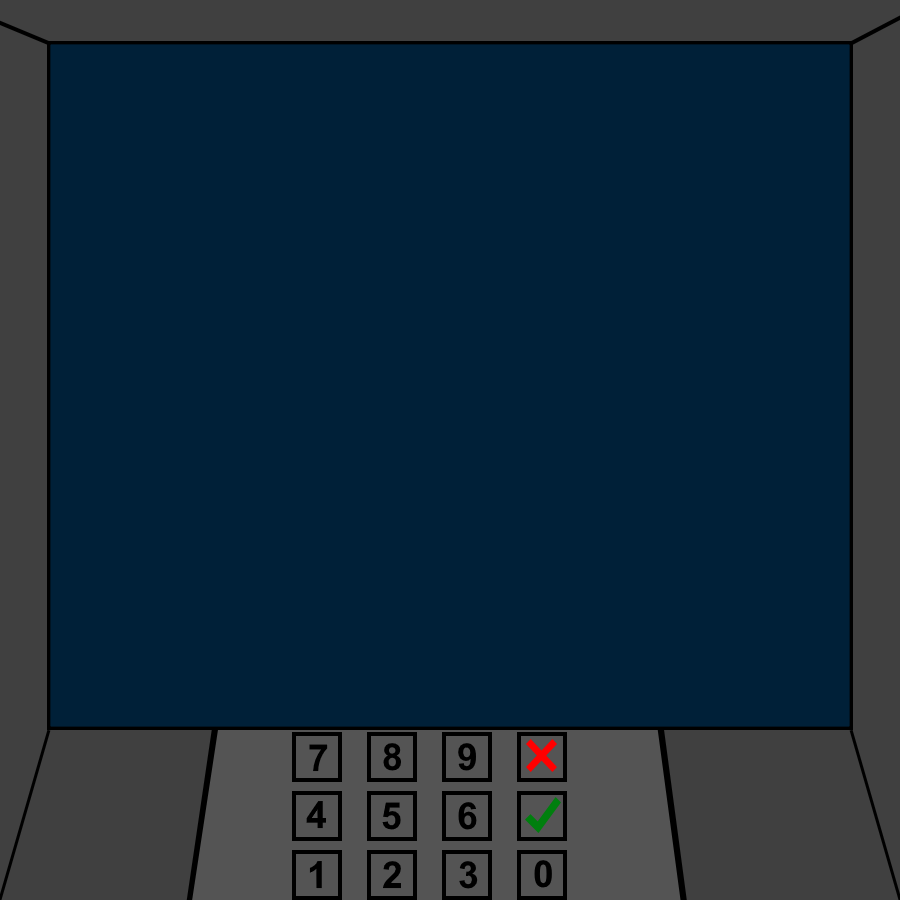
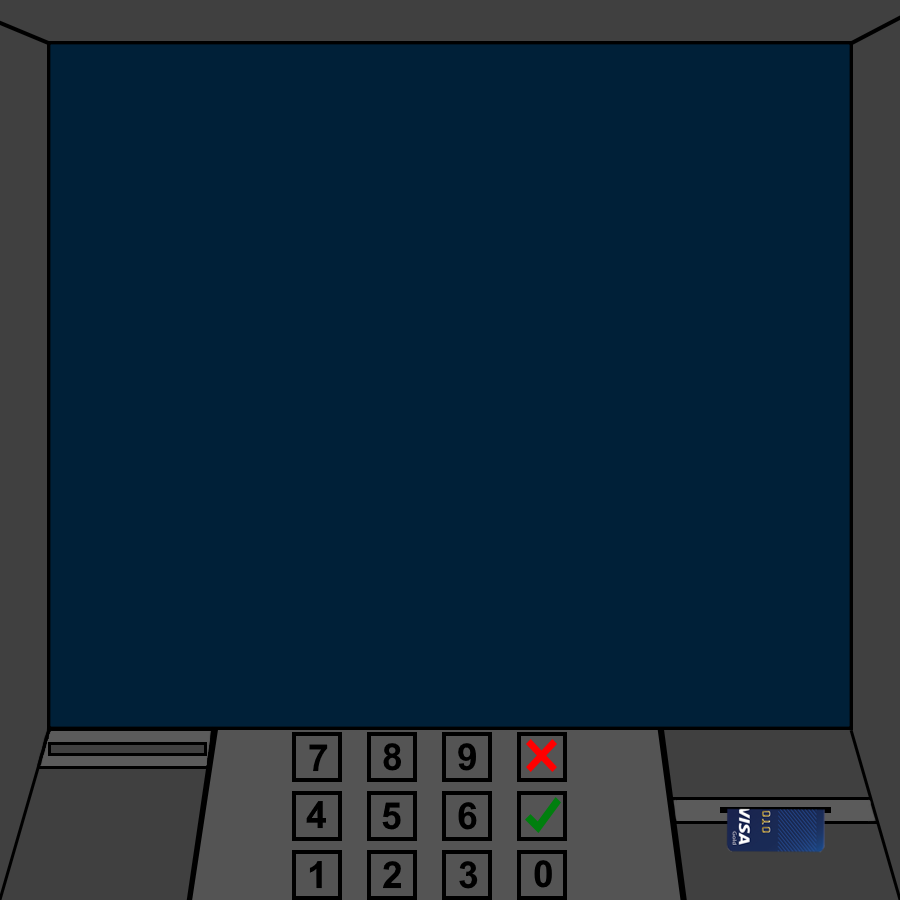
lettsgooooo

Changed region(s): [[0.7467, 0.8711, 0.9644, 0.9644], [0.0311, 0.8089, 0.2489, 0.8711]]

diff --git a/src/main/java/com/example/csmore/cashOutController.java b/src/main/java/com/example/csmore/cashOutController.java
@@ -11,6 +11,9 @@ import javafx.scene.Scene;
 import javafx.scene.control.ChoiceBox;
 import javafx.scene.control.Label;
 import javafx.scene.control.TextField;
+import javafx.scene.image.Image;
+import javafx.scene.image.ImageView;
+import javafx.scene.input.MouseEvent;
 import javafx.stage.Stage;
 
 import java.net.URL;
@@ -23,6 +26,13 @@ public class cashOutController implements Initializable {
     public ChoiceBox choiceBOX;
     public TextField amountField;
     public Label infoText2;
+    public ImageView moneyImage;
+    Image image1 = new Image(getClass().getResourceAsStream("100czk.jpg"));
+    Image image2 = new Image(getClass().getResourceAsStream("200czk.jpg"));
+    Image image3 = new Image(getClass().getResourceAsStream("500czk.jpg"));
+    Image image4 = new Image(getClass().getResourceAsStream("1000czk.jpg"));
+    Image image5 = new Image(getClass().getResourceAsStream("2000czk.jpg"));
+    Image image6 = new Image(getClass().getResourceAsStream("5000czk.jpg"));
 
     public void buttonSevenClick(ActionEvent actionEvent) {
         amountField.setText(amountField.getText()+String.valueOf(7));
@@ -34,6 +44,17 @@ public class cashOutController implements Initializable {
 
     public void buttonNineClick(ActionEvent actionEvent) {
         amountField.setText(amountField.getText()+String.valueOf(9));
+    }
+
+    public void setMoneyImage(String money){
+        switch (Integer.parseInt(money)){
+            case 100 -> moneyImage.setImage(image1);
+            case 200 -> moneyImage.setImage(image2);
+            case 500 -> moneyImage.setImage(image3);
+            case 1000 -> moneyImage.setImage(image4);
+            case 2000 -> moneyImage.setImage(image5);
+            case 5000 -> moneyImage.setImage(image6);
+        }
     }
 
     public void declineButtonClick(ActionEvent actionEvent) {
@@ -60,9 +81,25 @@ public class cashOutController implements Initializable {
     public void acceptButtonClick(ActionEvent actionEvent) {
         if(amountField.getLength()>0){
             acc.setAccountBalance(acc.getAccountBalance()-Integer.parseInt(amountField.getText()));
+            int num = Integer.parseInt(amountField.getText());
+            if(num>0&&num<200){
+                num=100;
+            } else if(num>=200&&num<500){
+                num=200;
+            } else if(num>=500&&num<1000){
+                num=500;
+            } else if(num>=1000&&num<2000){
+                num=1000;
+            } else if(num>=2000&&num<5000){
+                num=2000;
+            } else if(num>=5000){
+                num=5000;
+            }
+            setMoneyImage(String.valueOf(num));
         } else{
             String h1 = String.valueOf(choiceBOX.getSelectionModel().getSelectedItem());
             acc.setAccountBalance(acc.getAccountBalance()-Integer.parseInt(h1));
+            setMoneyImage(h1);
         }
         infoText2.setText("Vaše peníze byly vybrány.");
     }
@@ -99,5 +136,9 @@ public class cashOutController implements Initializable {
     public void initialize(URL url, ResourceBundle resourceBundle) {
         String [] amount = {"100","200","500","1000","2000","5000","10000"};
         choiceBOX.setItems(FXCollections.observableArrayList(amount));
+    }
+
+    public void takeMoney(MouseEvent mouseEvent) {
+
     }
 }
